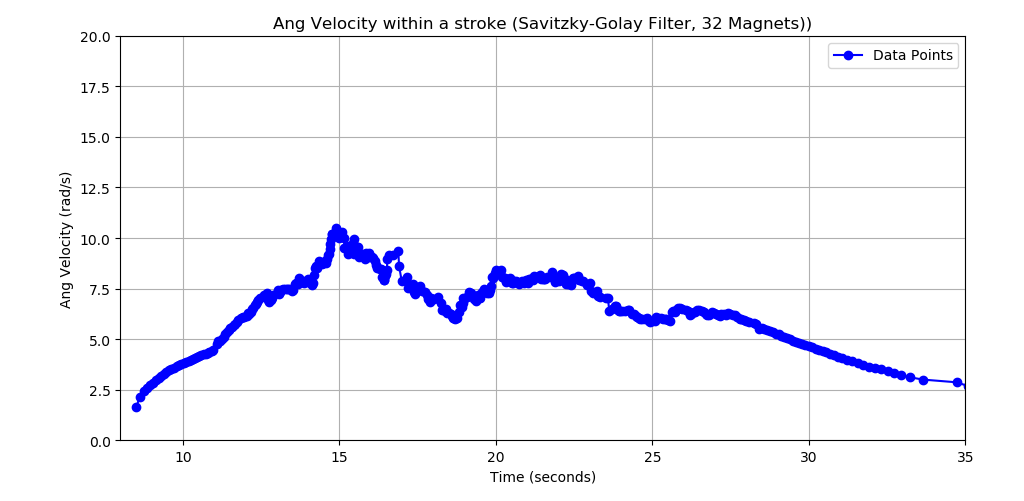
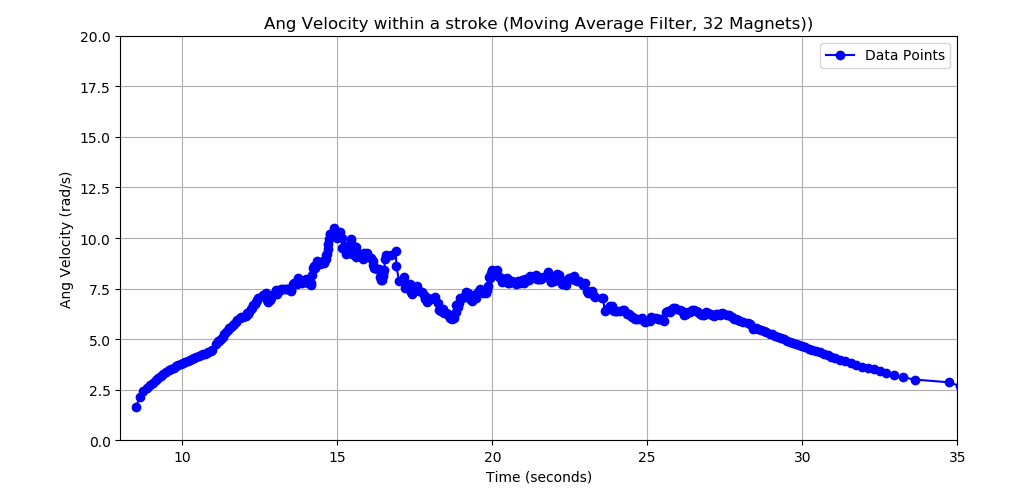
Graphs fixed

diff --git a/piVersion/mainPi.py b/piVersion/mainPi.py
@@ -17,10 +17,10 @@ TimeStamps = process_file("/home/pi/ST04-Git/Graphs/32 Magnets.txt")
 
 ###Moving Average Filter
 
-dt = getsmoothedDt(TimeStamps)
-
+#dt = getsmoothedDt(TimeStamps)
 
 """
+
 ###No Filter
 dtraw = []
 for i in range(len(TimeStamps)-1):
@@ -28,12 +28,12 @@ for i in range(len(TimeStamps)-1):
     dtraw.append(newStamp)  
 
 dt = dtraw
-
-
 """
+
+
 
 ###SavGol Filter
-"""
+
 dtraw = []
 for i in range(len(TimeStamps)-1):
     newStamp = TimeStamps[i+1] - TimeStamps[i] #Calculating all values
@@ -41,7 +41,7 @@ for i in range(len(TimeStamps)-1):
 
 
 dt = savgol_filter(dtraw, window_length=5, polyorder=3)
-"""
+
 
 ##########
 freq, angVel, RPMvalues = timeToDw(TimeStamps, dt)
@@ -128,10 +128,10 @@ plt.tight_layout()
 
 """
 
-
+""
 ###Acceleration with Limits
 
-
+"""
 
 plt.figure()
 
@@ -147,7 +147,7 @@ plt.legend()
 plt.tight_layout()
 
 
-
+"""
 
 
 ####Power with Limits
@@ -207,7 +207,7 @@ plt.tight_layout()
 
 """
 
-"""
+
 
 plt.figure()
 plt.plot(TimeStamps[timeInitIndex:timeFinIndex], angVel[pwrInitIndex-1:pwrFinIndex-1], marker='o', linestyle='-',
@@ -217,7 +217,7 @@ plt.plot(TimeStamps[timeInitIndex:timeFinIndex], angVel[pwrInitIndex-1:pwrFinInd
 # Add labels and title
 plt.xlabel('Time (seconds)')
 plt.ylabel('Ang Velocity (rad/s)')
-plt.title('Ang Velocity within a stroke (Savitzky-Golay Filter, 32 Magnets))')
+plt.title('Ang Velocity within a stroke (Savitzky Golay Filter, 32 Magnets))')
 
 plt.xlim(8, 35)  # Adjust x-axis limits to zoom in on a specific section
 plt.ylim(0, 20)  # Adjust y-axis limits if needed
@@ -232,7 +232,7 @@ plt.legend()
 plt.tight_layout()
 
 
-"""
+
 
 
 
